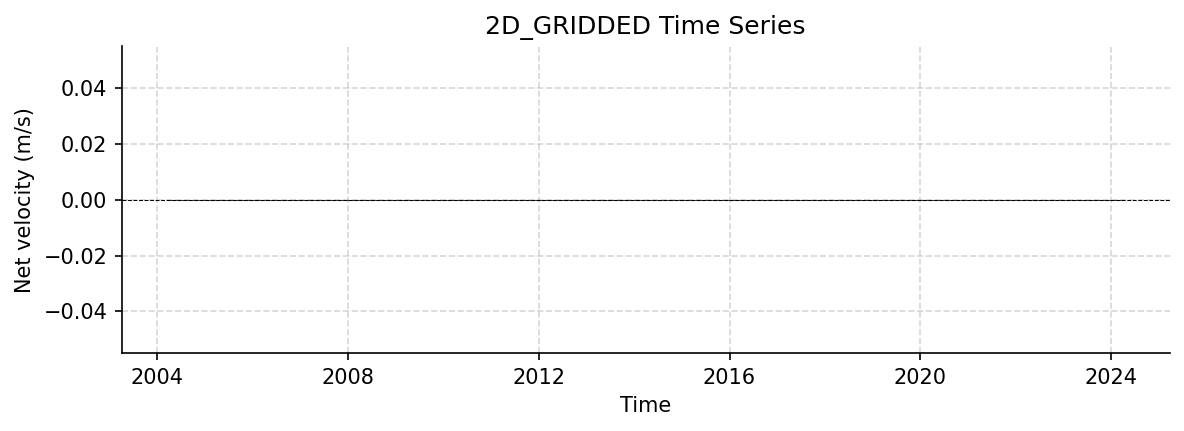
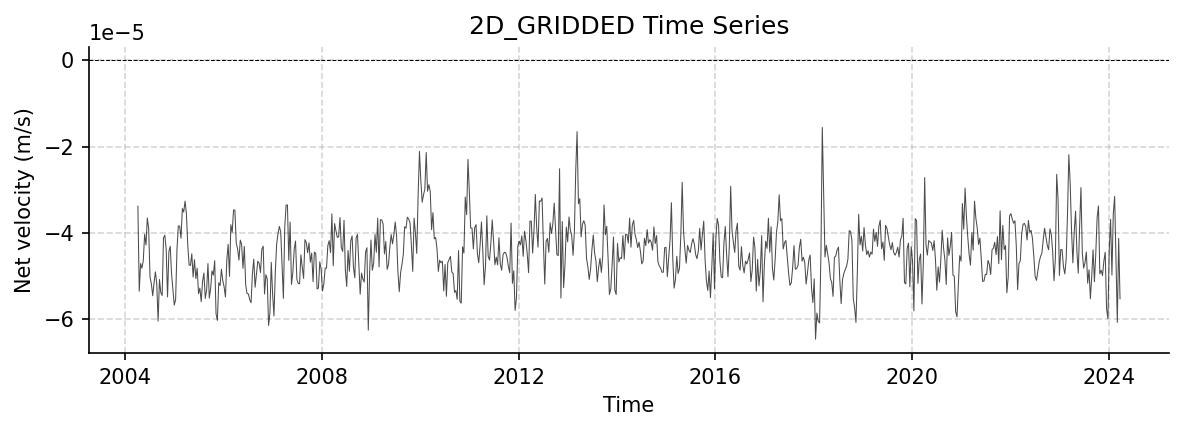
fixes: move fw2015 data to zenodo for automatic downloads (#115)

diff --git a/amocatlas/data_sources/fw2015.py b/amocatlas/data_sources/fw2015.py
@@ -27,27 +27,27 @@ DATASOURCE_ID = "fw2015"
 
 # Default file list
 FW2015_DEFAULT_FILES = [
-    "MOCproxy_for_figshare_v1.mat",
+    "MOCproxy_for_figshare_v1.0.mat",
 ]
-FW2015_TRANSPORT_FILES = ["MOCproxy_for_figshare_v1.mat"]
+FW2015_TRANSPORT_FILES = ["MOCproxy_for_figshare_v1.0.mat"]
 
 # Mapping of filenames to download URLs
 FW2015_FILE_URLS = {
-    "README.txt": "https://figshare.com/ndownloader/files/3369791?private_link=281b3e9c8abba860d553",
-    "MOCproxy_for_figshare_v1.mat": "https://figshare.com/ndownloader/files/3369779",
+    "README.txt": "https://zenodo.org/records/18606051/files/README%20for%20MOCproxy_for_figshare.txt",
+    "MOCproxy_for_figshare_v1.0.mat": "https://zenodo.org/records/18606051/files/MOCproxy_for_figshare_v1.0.mat",
 }
 
 # General Metadata (global for FW2015)
 
 FW2015_METADATA = {
     "project": "Estimating the Atlantic overturning at 26°N using satellite altimetry and cable measurements",
-    "doi": "http://dx.doi.org/10.1002/2015GL063220",
+    "doi": "10.5281/zenodo.18606051",
 }
 
 
 # File-specific metadata (placeholder, ready to extend)
 FW2015_FILE_METADATA = {
-    "MOCproxy_for_figshare_v1.mat": {
+    "MOCproxy_for_figshare_v1.0.mat": {
         "data_product": "Time series of MOC",
     },
 }

diff --git a/docs/source/reports/mocha_report.rst b/docs/source/reports/mocha_report.rst
@@ -95,56 +95,56 @@ along with key statistics for each variable.
      - Max Value
      - Missing %
    * - *Q_sum* → **MHT**
-     - Net meridional heat transport 
+     - No description available
      - PW
      - (12202,)
      - -0.64
      - 2.52
      - 0.0%
    * - *Q_ek* → **MHT_EKMAN**
-     - Ekman heat transports 
+     - No description available
      - PW
      - (12202,)
      - -1.16
      - 1.74
      - 0.0%
    * - *Q_fc* → **MHT_FC**
-     - Florida Straits heat transports 
+     - No description available
      - PW
      - (12202,)
      - 1.50
      - 3.29
      - 0.0%
    * - *Q_gyre* → **MHT_GYRE**
-     - Basinwide gyre heat transports, as classically defined (e.g. see Johns et al., 2011) 
+     - No description available
      - PW
      - (12202,)
      - -0.03
      - 0.23
      - 0.0%
    * - *Q_int* → **MHT_INT**
-     - Heat transport for the rest of the interior to Africa (but only represents the contribution by the zonal mean v and T) 
+     - No description available
      - PW
      - (12202,)
      - -2.97
      - -0.81
      - 0.0%
    * - *Q_mo* → **MHT_MO**
-     - The sum of all the three interior components between the Bahamas and Africa (Q_int + Q_wedge + Q_eddy) 
+     - No description available
      - PW
      - (12202,)
      - -2.52
      - -0.92
      - 0.0%
    * - *Q_ot* → **MHT_OT**
-     - Basinwide overturning heat transports, as classically defined (e.g. see Johns et al., 2011) 
+     - No description available
      - PW
      - (12202,)
      - -0.63
      - 2.47
      - 0.0%
    * - *Q_wedge* → **MHT_WEDGE**
-     - Heat transport for the "western boundary wedge" off Abaco 
+     - No description available
      - PW
      - (12202,)
      - -0.41
@@ -158,7 +158,7 @@ along with key statistics for each variable.
      - 32.90
      - 0.0%
    * - **Q_eddy**
-     - **MHT_EDDY**: interior gyre component due to spatially correlated v'T' variability across the interior, derived from an objective analysis of interior ARGO T/S data merged with the mooring T/S data from moorings, and smoothly merged into the EN4 climatology along 26.5°N below 2000m 
+     - No description available
      - PW
      - (12202,)
      - -0.03

diff --git a/docs/source/reports/fw2015_report.rst b/docs/source/reports/fw2015_report.rst
@@ -3,15 +3,15 @@ FW2015 Datasets
 
 ----
 
-MOCproxy_for_figshare_v1.mat
-----------------------------
+MOCproxy_for_figshare_v1.0.mat
+------------------------------
 
 Dataset Overview
 ^^^^^^^^^^^^^^^^
 
 - **Project**: RAPID
 - **Description**: Estimating the Atlantic overturning at 26°N using satellite altimetry and cable measurements
-- **Source File**: MOCproxy_for_figshare_v1.mat
+- **Source File**: MOCproxy_for_figshare_v1.0.mat
 - **Data Product**: a proxy for the meridional overturning circulation at 26N, using sea level anomaly and cable measurements
 - **License**: CC-BY-4.0
 - **Time Coverage**: 1993-01-15 to 2014-12-15
@@ -169,7 +169,7 @@ The following metadata provides comprehensive information about this dataset:
 - **Description\***: Estimating the Atlantic overturning at 26°N using satellite altimetry and cable measurements
 - **Project\***: RAPID
 - **License\***: CC-BY-4.0
-- **Weblink\***: https://figshare.com/articles/dataset/MOCproxy_for_figshare_v1_0_mat/1463479?file=3369779
+- **Weblink\***: https://zenodo.org/records/18606051
 - **Data Product\***: a proxy for the meridional overturning circulation at 26N, using sea level anomaly and cable measurements
 - **Time Coverage Start\***: 1993-01-15
 - **Time Coverage End\***: 2014-12-15
@@ -184,9 +184,9 @@ The following metadata provides comprehensive information about this dataset:
 - **Conventions\***: CF-1.8, ACDD-1.3, OceanSITES-1.5
 - **featureType\***: timeSeries
 - **featureType_vocabulary**: https://cfconventions.org/cf-conventions/v1.6.0/cf-conventions.html#_features_and_feature_types
-- **Source File\***: MOCproxy_for_figshare_v1.mat
-- **Source Path\***: ~/AMOCatlas/data/MOCproxy_for_figshare_v1.mat
-- **Source Url\***: https://figshare.com/articles/dataset/MOCproxy_for_figshare_v1_0_mat/1463479?file=3369779
+- **Source File\***: MOCproxy_for_figshare_v1.0.mat
+- **Source Path\***: ~/AMOCatlas/data/MOCproxy_for_figshare_v1.0.mat
+- **Source Url\***: https://zenodo.org/records/18606051/files/MOCproxy_for_figshare_v1.0.mat
 - **Date Modified**: 2026-02-01T00:00:00Z
 - **Processing Software**: http://github.com/AMOCcommunity/amocatlas
 - **Processing Version**: v0.3.0

diff --git a/docs/source/reports/dso_report.rst b/docs/source/reports/dso_report.rst
@@ -167,7 +167,7 @@ The following metadata provides comprehensive information about this dataset:
 - **Source Url\***: https://www.cen.uni-hamburg.de/en/icdc/data/ocean/denmark-strait-overflow.html
 - **Date Created**: 2021-12-06T19:37:07Z
 - **Date Modified**: 2026-02-01T00:00:00Z
-- **History**: 2021-12-06T19:37:07ZOceanSITES file with provisional transport data sent to DAC by Ursula Schauer; 2026-02-11T07:41:26Z AMOCatlas: Corrupted DEPTH value in DSO_transport_hourly_1996_2021.nc marked as NaN (was 9.97e+36)
+- **History**: 2021-12-06T19:37:07ZOceanSITES file with provisional transport data sent to DAC by Ursula Schauer; 2026-02-11T09:49:14Z AMOCatlas: Corrupted DEPTH value in DSO_transport_hourly_1996_2021.nc marked as NaN (was 9.97e+36)
 - **Processing Software**: http://github.com/AMOCcommunity/amocatlas
 - **Processing Version**: v0.3.0
 - **Processing Datasource\***: dso

diff --git a/docs/source/reports/rapid_report.rst b/docs/source/reports/rapid_report.rst
@@ -755,29 +755,29 @@ along with key statistics for each variable.
      - **Salinity**: Absolute salinity following TEOS-10 standard
      - g kg-1
      - (730, 254, 307)
-     - 0.00
-     - 37.88
+     - 35.02
+     - 37.95
      - 0.0%
    * - *V_ekman* → **VCUR_EKMAN**
      - **Ekman velocity**: Ekman transport velocity component
      - m s-1
      - (730, 254, 307)
-     - 0.00
-     - 37.13
+     - -0.03
+     - 0.08
      - 0.0%
    * - *V_insitu* → **VCUR_INSITU**
      - **Meridional velocity**: In-situ meridional velocity component
      - m s-1
      - (730, 254, 307)
-     - 0.00
-     - 37.13
+     - -1.16
+     - 1.61
      - 0.0%
    * - *V_net* → **VCUR_NET**
      - **Net velocity**: Net meridional velocity (in-situ + Ekman)
      - m s-1
      - (730,)
-     - 0.00
-     - 0.00
+     - -0.00
+     - -0.00
      - 0.0%
 
 
